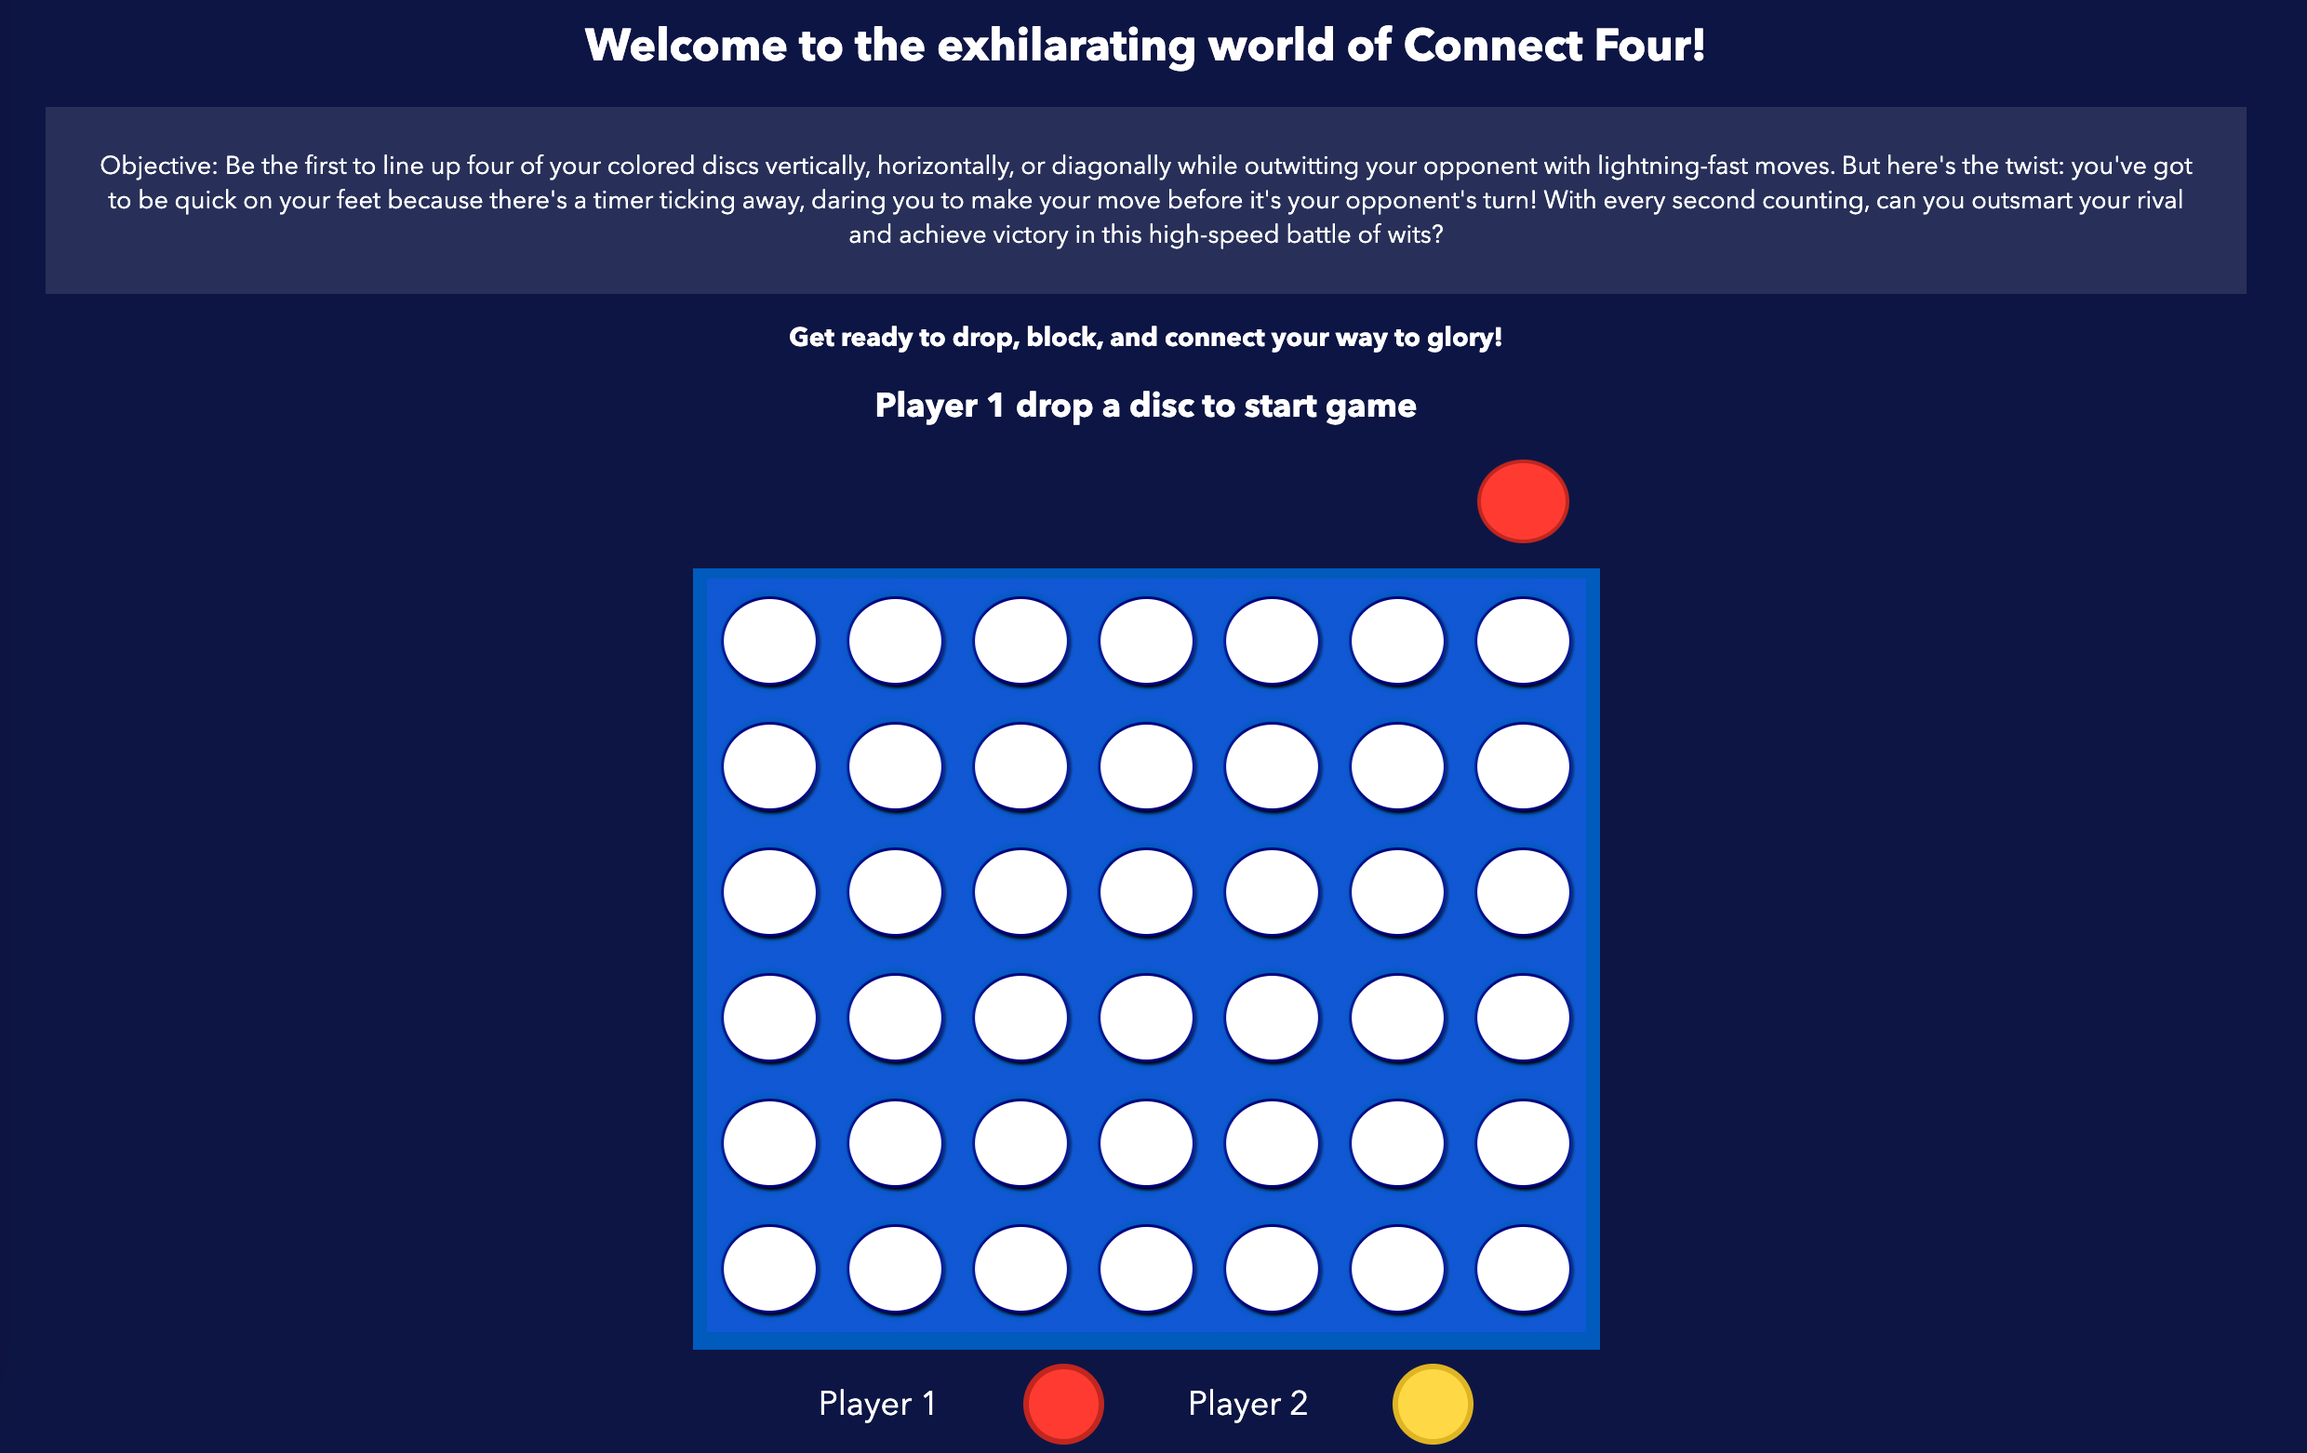
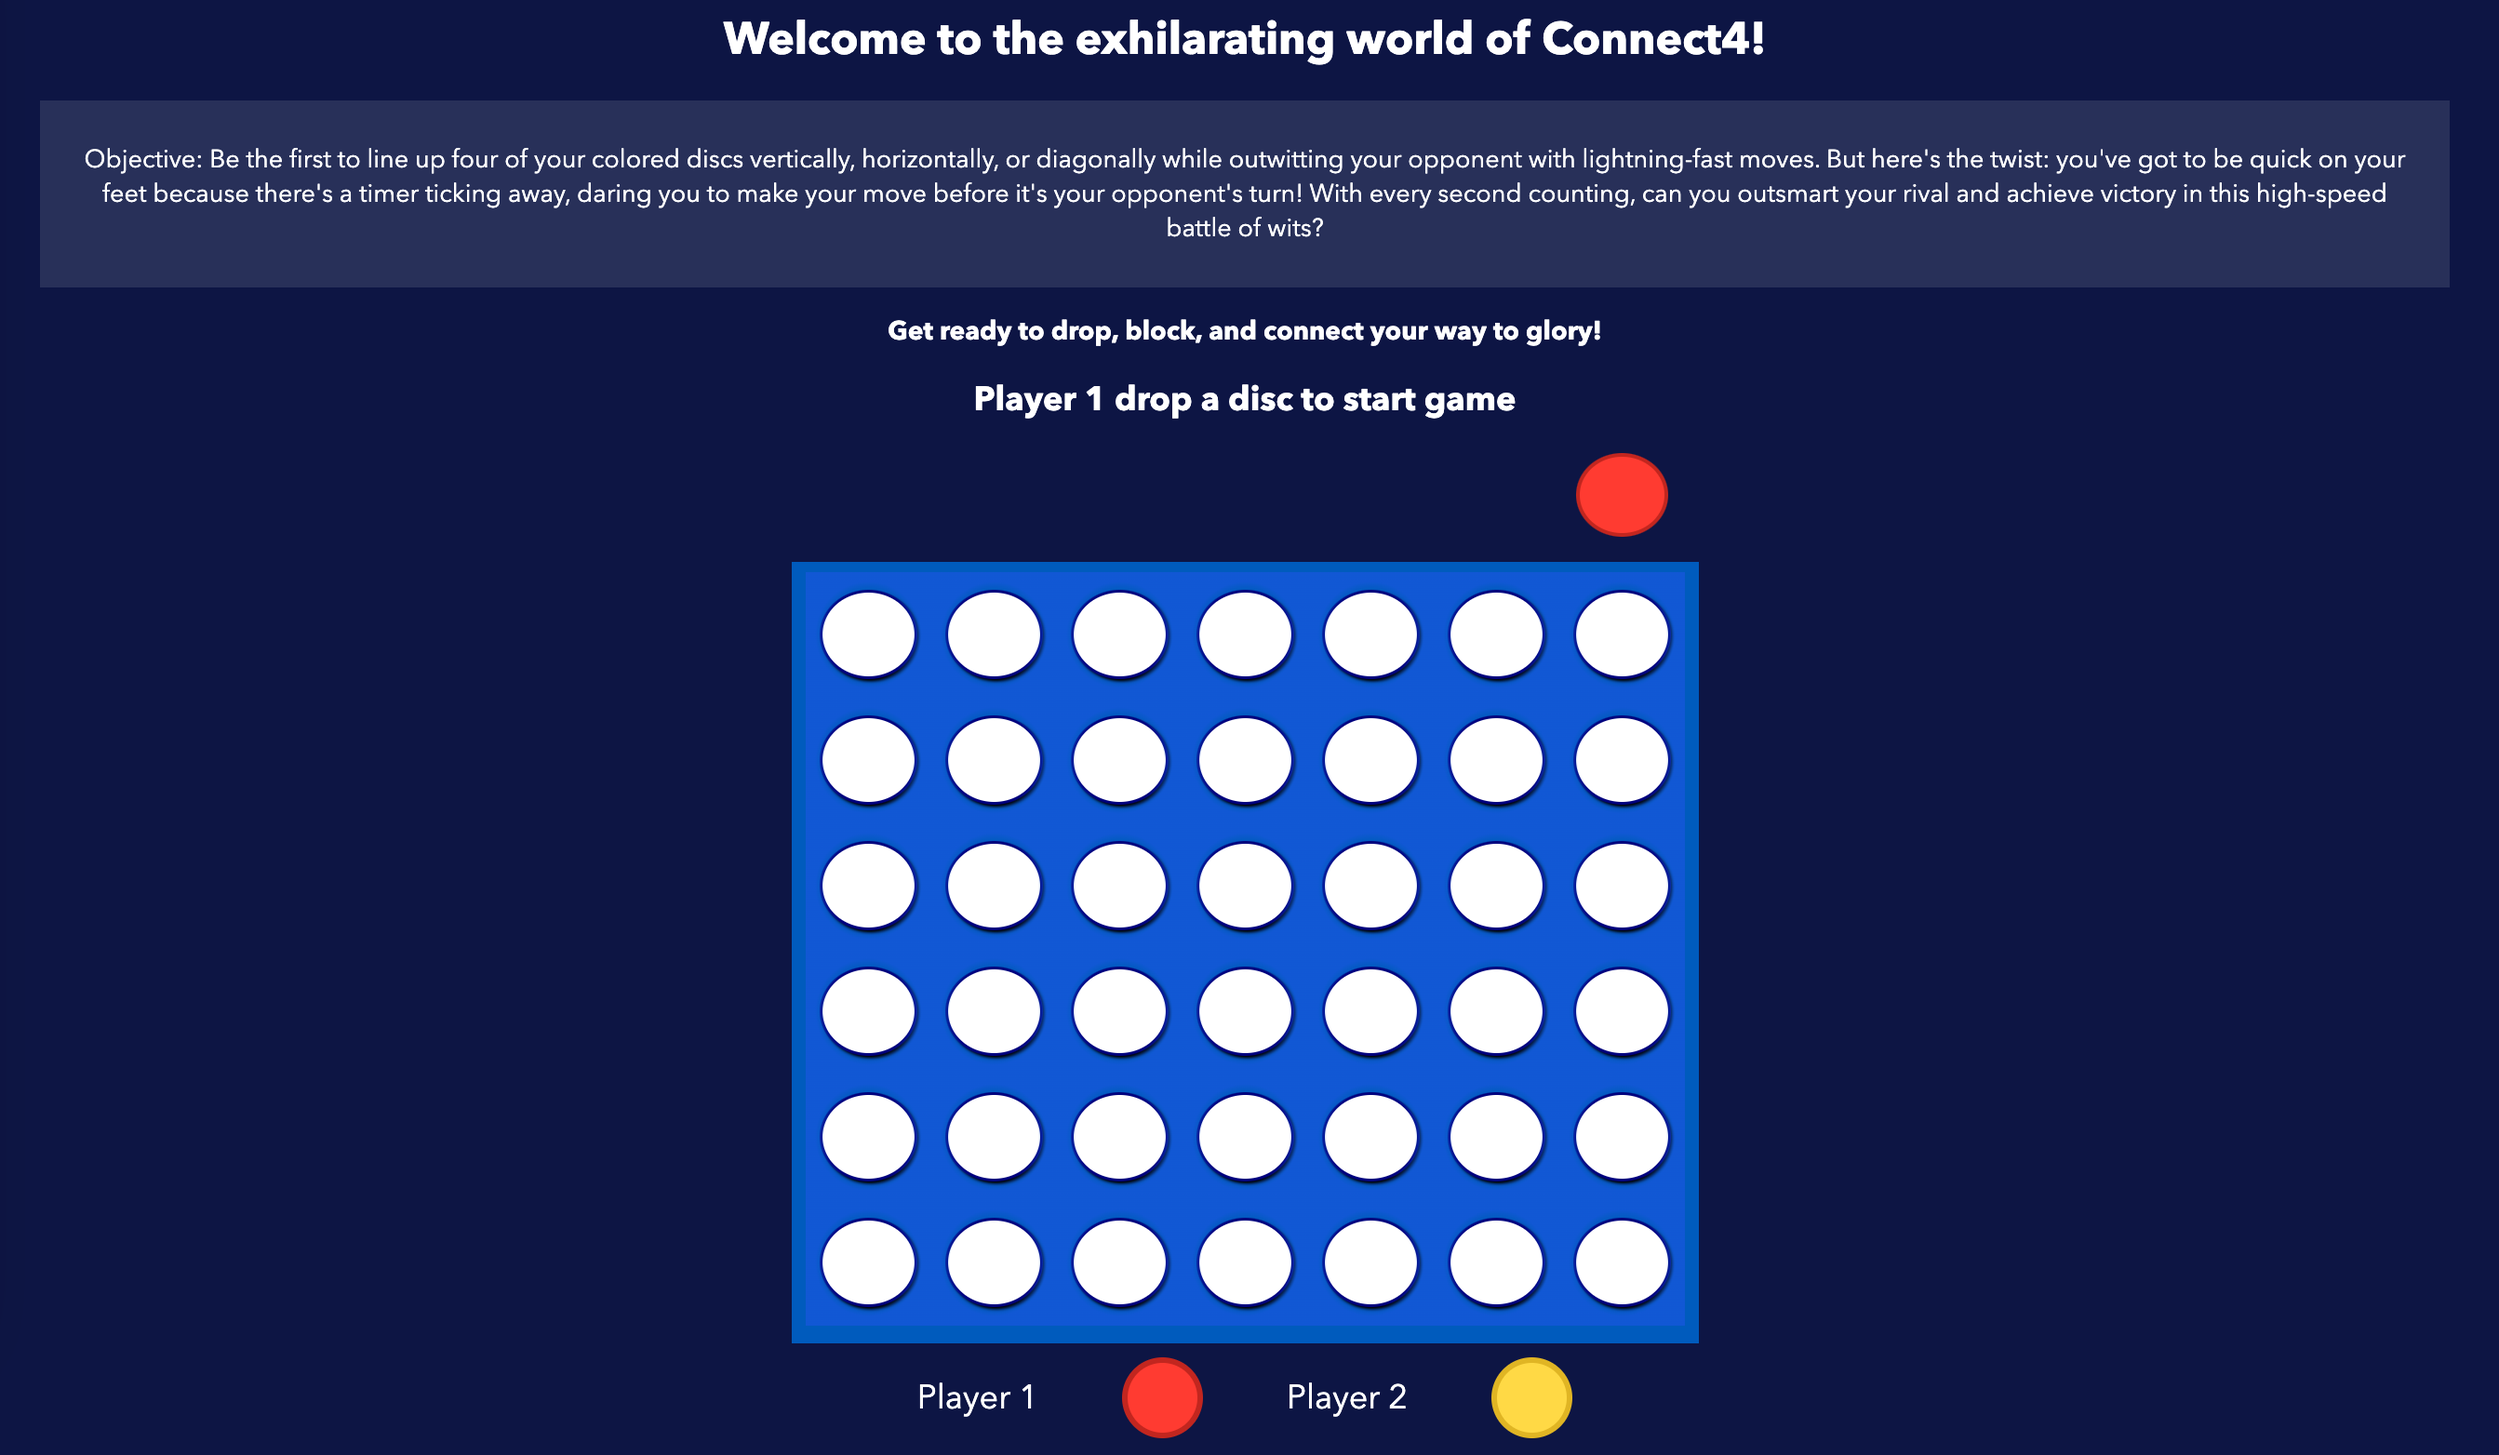
Update README.md

Changed region(s): [[0.2794, 0.3073, 0.7141, 1.0], [0.0, 0.0, 0.9935, 0.3073]]

diff --git a/Connect4/index.html b/Connect4/index.html
@@ -12,7 +12,7 @@
       <button class="button" id="start-game">Start Game</button>
     </div>
     <div class="main-game">
-      <h1>Welcome to the exhilarating world of Connect Four!</h1>
+      <h1>Welcome to the exhilarating world of Connect4!</h1>
       <p>
         Objective: Be the first to line up four of your colored discs
         vertically, horizontally, or diagonally while outwitting your opponent

diff --git a/Connect4/README.md b/Connect4/README.md
@@ -1,4 +1,4 @@
-# <Connect4: The Ultimate High-Speed Battle of Wits!>
+# Connect4: The Ultimate High-Speed Battle of Wits!
 
 Welcome to the world of Connect4, where strategic brilliance meets the thrill of competition! Picture this: a vibrant battlefield of red and yellow, where players face off in a quest to line up four of their colored discs in a row. But wait, it's not just about dropping pieces randomly and hoping for the best—it's a cunning game of wits and tactical maneuvering!
 
@@ -21,7 +21,7 @@ So gather your courage, summon your inner genius, and prepare for the ultimate h
 
 # Getting Started
 
-[Click to Play Connect Four!](https://hongpeichua94.github.io/GA-SEI-PROJ/Connect4/)
+[Click to Play Connect4!](https://hongpeichua94.github.io/GA-SEI-PROJ/Connect4/)
 
 # Next Steps / Future Enhancement
 
@@ -30,6 +30,6 @@ So gather your courage, summon your inner genius, and prepare for the ultimate h
 
 # References
 
-- [How to Build Connect 4 with Javascript HTML CSS](https://www.youtube.com/watch?v=4ARsthVnCTg&t=1238s)
-- [Coding Connect 4 with JavaScript](https://www.youtube.com/watch?v=kA9OOeUXXSU)
+- [How to Build Connect4 with Javascript HTML CSS](https://www.youtube.com/watch?v=4ARsthVnCTg&t=1238s)
+- [Coding Connect4 with JavaScript](https://www.youtube.com/watch?v=kA9OOeUXXSU)
 - [Connect4 Logo Asset](https://www.microsoft.com/en-ai/p/four-in-a-row-connect-4/9n18tqf8909s#activetab=pivot:overviewtab)
